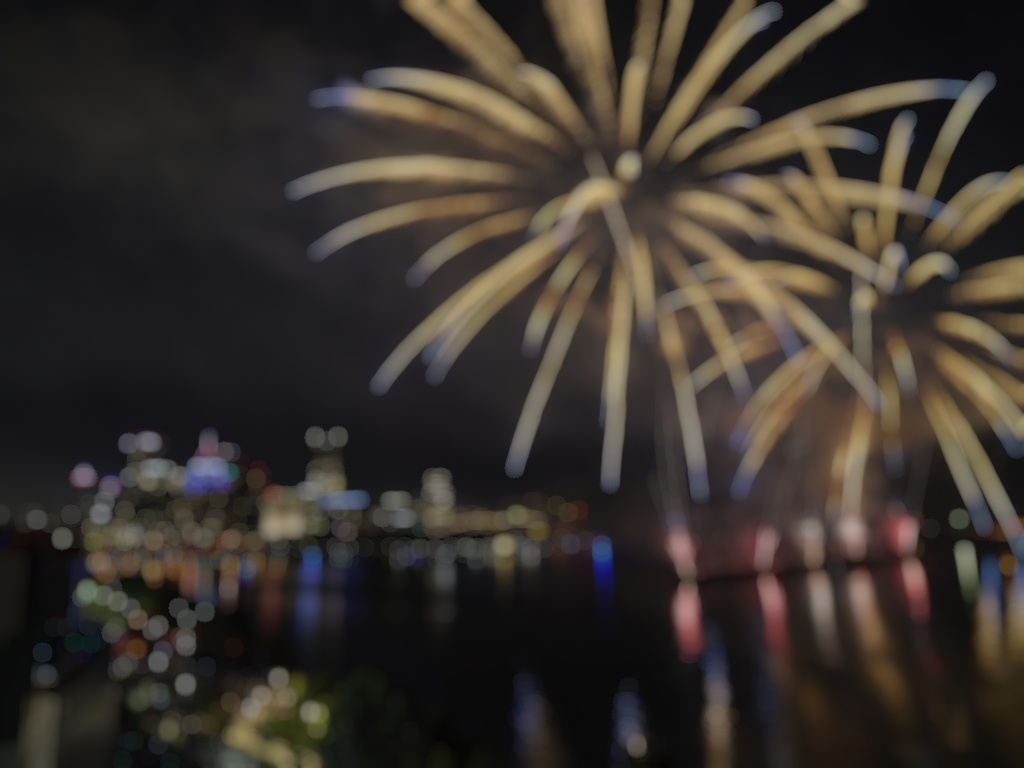
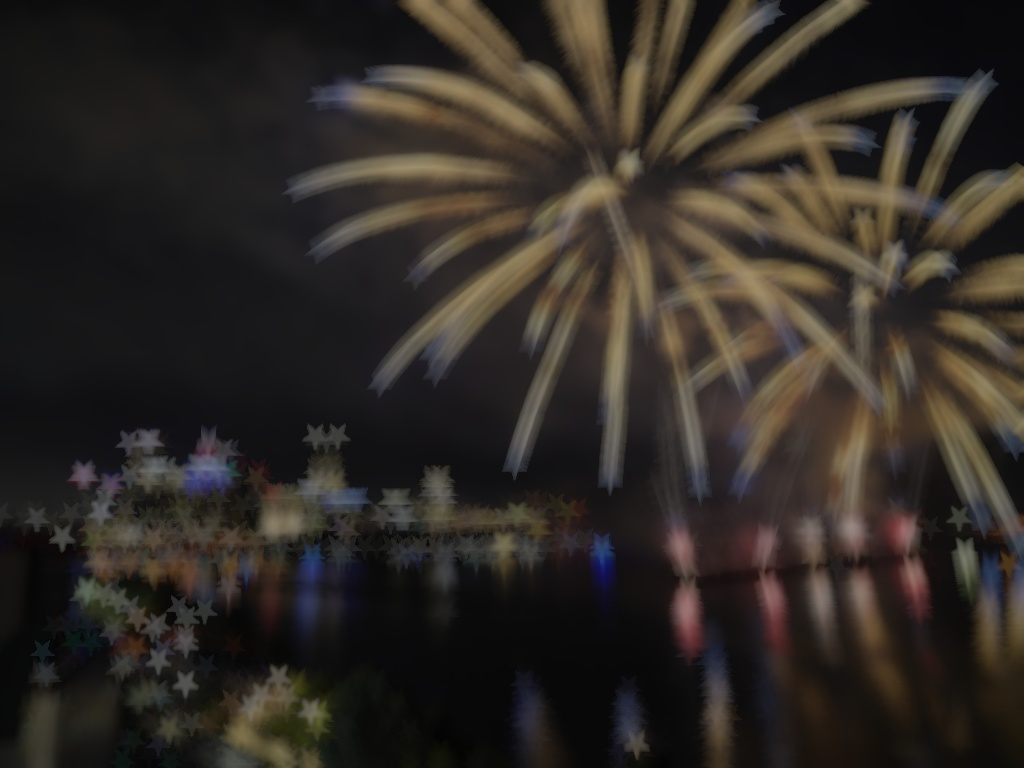
Added bokeh from image kernel

diff --git a/bokeh.py b/bokeh.py
@@ -4,8 +4,8 @@ import numpy as np
 import matplotlib.pyplot as plt
 
 # Read Image
-filename = "Comiccon_Decals_Square_for_Shopify-42"
-file_extension = "webp"
+filename = "fireworks"
+file_extension = "jpg"
 image_bgr = cv2.imread(os.path.relpath(f"Input/{filename}.{file_extension}"))
 image_rgb = cv2.cvtColor(image_bgr, cv2.COLOR_BGR2RGB)
 
@@ -17,14 +17,20 @@ image_linear = np.pow(np.float32(image_rgb)/255, gamma)
 
 
 # Generate circular kernel
-kernel_size = 11
-kernel_radius = int(kernel_size/2)
-x,y = np.indices([kernel_size, kernel_size])
-x -= kernel_radius
-y -= kernel_radius
-r = np.sqrt(x**2+y**2)
+# kernel_size = 51
+# kernel_radius = int(kernel_size/2)
+# x,y = np.indices([kernel_size, kernel_size])
+# x -= kernel_radius
+# y -= kernel_radius
+# r = np.sqrt(x**2+y**2)
 
-kernel = (r <= kernel_radius).astype(float) / (kernel_size*kernel_size)
+# kernel = (np.logical_and(r <= kernel_radius, x >= 0)).astype(float) / (kernel_size*kernel_size)
+
+
+# Generate kernel from file
+kernel_file = "Input/star.png"
+kernel = np.float32(cv2.imread(os.path.relpath(kernel_file), cv2.IMREAD_GRAYSCALE)) / 255
+kernel /= kernel.shape[0] * kernel.shape[1]
 
 # Apply Bokeh Filter
 image_bokeh_linear = cv2.filter2D(image_linear, ddepth=-1, kernel=kernel)
